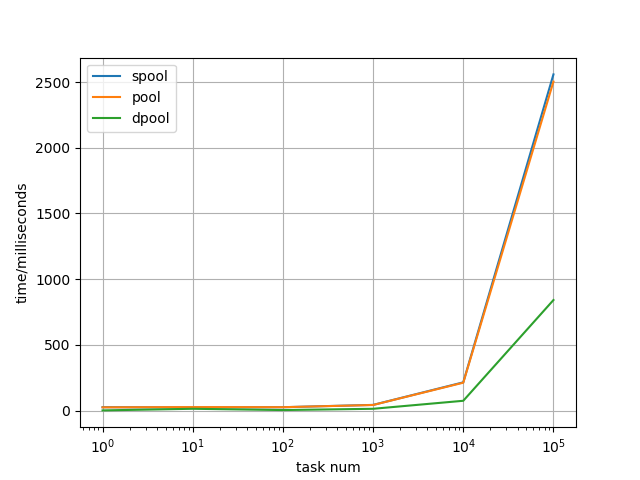
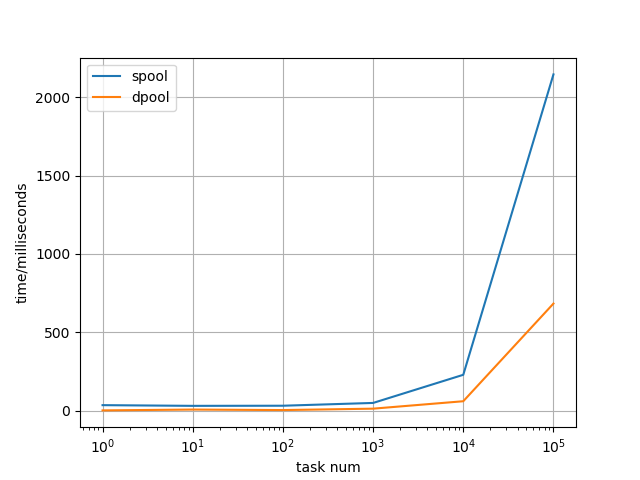
Update 1

diff --git a/includes/static_pool.hpp b/includes/static_pool.hpp
@@ -18,11 +18,10 @@
 namespace thread_pools
 {
 
-template <std::size_t PoolSize> // TODO: Set better default value according to the architecture.
 class spool final
 {// Ref: https://github.com/progschj/ThreadPool/blob/master/ThreadPool.h
 public:
-    spool();
+    spool(std::size_t);
     ~spool();
     template <typename Func, typename ... Args>
     auto enqueue(Func &&f, Args &&... args) // For Cpp14+ -> decltype(auto).
@@ -32,33 +31,40 @@ private:
     // Use xx::function<> wrapper is not zero overhead.(See the link below)
     // https://www.boost.org/doc/libs/1_45_0/doc/html/function/misc.html#id1285061
     // https://www.boost.org/doc/libs/1_45_0/doc/html/function/faq.html#id1284915
-    using thread_container = std::array<std::thread, PoolSize>;
-    thread_container                       m_workers;
-    std::mutex                             m_mu;
+    std::mutex                             m_queue_mu;
+    std::mutex                             m_end_mu;
     std::condition_variable                m_cv;
+    std::condition_variable                m_cv_end;
     std::queue<task_type>                  m_task_queue;
+    std::atomic<int>                       m_live        {  0  };
     bool                                   m_shutdown    {false};
 };
 
 // Implementation:
-template <std::size_t Sz> inline spool<Sz>::spool()
+inline spool::spool(std::size_t sz)
 {
-    for(auto && w : m_workers)
-        w = std::thread{[this]{
-            while(true)
-            {
-                std::unique_lock<std::mutex> lock(m_mu);
+    m_live = sz;
+    for(int i=0; i<sz; ++i)
+        std::thread([this] {
+            while (true) {
+                std::unique_lock<std::mutex> lock(m_queue_mu);
                 m_cv.wait(lock, [this] { return m_shutdown or !m_task_queue.empty(); });
-                if (m_shutdown and m_task_queue.empty()) return; // Conditions to let the thread go.
+                if (m_shutdown and m_task_queue.empty()) {
+                    lock.unlock();
+                    if (--m_live == 0)
+                        m_cv_end.notify_one();
+                    return; // Conditions to let the thread go.
+                }
                 auto task = std::move(m_task_queue.front());
                 m_task_queue.pop();
                 lock.unlock();
                 task();
-            }}};
+            }
+        }).detach();
 }
 
-template <std::size_t Sz> template <typename Func, typename ... Args>
-auto spool<Sz>::enqueue(Func &&f, Args &&... args) -> std::future<typename std::result_of<Func(Args...)>::type>
+template <typename Func, typename ... Args>
+auto spool::enqueue(Func &&f, Args &&... args) -> std::future<typename std::result_of<Func(Args...)>::type>
 {
     using return_type = typename std::result_of<Func(Args...)>::type;
 // >>> [Original std::shared_ptr version]. Actually in Cpp14 new standard we can use std::unique_ptr.
@@ -68,13 +74,12 @@ auto spool<Sz>::enqueue(Func &&f, Args &&... args) -> std::future<typename std::
     MAKE_TASK()
 }
 
-template <std::size_t Sz> inline spool<Sz>::~spool()
+inline spool::~spool()
 {
-    std::unique_lock<std::mutex> lock(m_mu);
     m_shutdown = true;
-    lock.unlock();
     m_cv.notify_all();
-    std::for_each(m_workers.begin(), m_workers.end(), std::mem_fn(&std::thread::join));
+    std::unique_lock<std::mutex> lock(m_end_mu); // lock-free waiting is slower...
+    m_cv_end.wait(lock, [this] { return m_live.load() == 0; });
 }
 
 }

diff --git a/benchmark.cpp b/benchmark.cpp
@@ -29,7 +29,7 @@ int main() {
     constexpr std::size_t execute_time = 1; // milli.
     constexpr std::size_t scale = 6;
 
-    std::vector<double> answers[3];
+    std::vector<double> answers[2];
 
     auto bench = [&](std::size_t mission_sz){
         std::this_thread::sleep_for(std::chrono::milliseconds(1000));
@@ -38,25 +38,12 @@ int main() {
         {   // TEST for thread_pools::spool
             auto beg = std::chrono::steady_clock::now();
             {
-                thread_pools::spool<psize> pool;
+                thread_pools::spool pool(psize);
                 for (int i = 0; i < mission_sz; ++i)
                     pool.enqueue([execute_time](){ std::this_thread::sleep_for(std::chrono::milliseconds(execute_time)); });
             }
             answers[0].push_back(std::chrono::duration<double, std::milli>(std::chrono::steady_clock::now() - beg).count());
             std::cout << "[STATIC POOL TEST] "  << psize << " threads execute time: " << answers[0].back() << " ms\n";
-        }
-
-        std::this_thread::sleep_for(std::chrono::milliseconds(1000));
-
-        {   // TEST for thread_pools::pool
-            auto beg = std::chrono::steady_clock::now();
-            {
-                thread_pools::pool pool(psize);
-                for (int i = 0; i < mission_sz; ++i)
-                    pool.enqueue([execute_time](){ std::this_thread::sleep_for(std::chrono::milliseconds(execute_time)); });
-            }
-            answers[1].push_back(std::chrono::duration<double, std::milli>(std::chrono::steady_clock::now() - beg).count());
-            std::cout << "[DEFAULT POOL TEST] "  << psize << " threads execute time: " << answers[1].back() << " ms\n";
         }
 
         std::this_thread::sleep_for(std::chrono::milliseconds(1000));
@@ -68,8 +55,8 @@ int main() {
                 for (int i = 0; i < mission_sz; ++i)
                     pool.enqueue([execute_time](){ std::this_thread::sleep_for(std::chrono::milliseconds(execute_time)); });
             }
-            answers[2].push_back(std::chrono::duration<double, std::milli>(std::chrono::steady_clock::now() - beg).count());
-            std::cout << "[DYNAMIC POOL TEST] "  << psize << " threads execute time: " << answers[2].back() << " ms\n";
+            answers[1].push_back(std::chrono::duration<double, std::milli>(std::chrono::steady_clock::now() - beg).count());
+            std::cout << "[DYNAMIC POOL TEST] "  << psize << " threads execute time: " << answers[1].back() << " ms\n";
         }
     };
 
@@ -85,18 +72,15 @@ int main() {
 
     // Generate code.
     auto& spool = answers[0];
-    auto& pool = answers[1];
-    auto& dpool = answers[2];
+    auto& dpool = answers[1];
 
     out << PY_IMPORT_SCRIPT;
     GEN_BENCH(x)
     GEN_BENCH(spool)
     PYPLOT(x, spool)
-    GEN_BENCH(pool)
-    PYPLOT(x, pool)
     GEN_BENCH(dpool)
     PYPLOT(x, dpool)
-    ADD_PYLINE("plt.legend(['spool', 'pool', 'dpool'])")
+    ADD_PYLINE("plt.legend(['spool', 'dpool'])")
 
     out << PY_PLOT_SCRIPT;
 }

diff --git a/includes/dynamic_pool.hpp b/includes/dynamic_pool.hpp
@@ -31,8 +31,6 @@ public:
     auto enqueue(Func&& f, Args&& ... args) -> std::future<typename std::result_of<Func(Args...)>::type>;
     template <typename Func, typename ... Args>
     auto enqueue(Func&& f, Args&& ... args) -> std::future<typename std::result_of<Func(Args...)>::type>;
-    std::size_t current_threads();
-    std::size_t current_tasks();
 #ifdef GANLER_DEBUG
     void unsafe_view()     noexcept {
         std::cout << "----------------------------------------\n"
@@ -49,12 +47,13 @@ private:
 
     const std::size_t            m_max_size;
     const std::size_t            m_max_idle_size;
-    std::atomic<std::size_t>     m_idle_num      { 0 };
-    std::mutex                   m_mu;
+    std::atomic<int>             m_idle_num      { 0 };
+    std::mutex                   m_queue_mu;
+    std::mutex                   m_map_mu;
     std::condition_variable      m_cv;
     thread_map                   m_workers;
     std::queue<task_type>        m_task_queue;
-    std::atomic<bool>            m_shutdown      { false };
+    bool                         m_shutdown      { false };
 
     // Helper
     void make_worker();                          // Called by locked function.
@@ -63,18 +62,7 @@ private:
 
 
 // Implementation
-inline std::size_t dpool::current_threads()
-{
-    std::lock_guard<std::mutex> lock(m_mu);
-    return m_workers.size();
-}
-
-inline std::size_t dpool::current_tasks()
-{
-    std::lock_guard<std::mutex> lock(m_mu);
-    return m_task_queue.size();
-}
-
+    // Init :)
 inline dpool::dpool(std::size_t max_sz, std::size_t max_idle_sz)
 : m_max_size(max_sz), m_max_idle_size( max_idle_sz == no_input ? max_sz / 2 : max_idle_sz)
 {
@@ -88,6 +76,7 @@ inline void dpool::destroy_worker(thread_index index)
         if(!m_shutdown)
         {
             m_workers[index].join();
+            std::lock_guard<std::mutex> lk(m_map_mu);
             m_workers.erase(index);
         }
     });
@@ -98,7 +87,7 @@ inline void dpool::make_worker()
     auto thread = std::thread{[this](){
         while(true)
         {
-            std::unique_lock<std::mutex> lock(m_mu);
+            std::unique_lock<std::mutex> lock(m_queue_mu);
             m_cv.wait(lock, [this](){ return m_shutdown or !m_task_queue.empty() or m_idle_num > m_max_idle_size; });
             if(m_shutdown and m_task_queue.empty()) { return; } // Game over.
             if(m_idle_num > m_max_idle_size and !m_shutdown)
@@ -121,7 +110,7 @@ inline void dpool::make_worker()
 inline dpool::~dpool()
 {
     m_shutdown = true;
-    m_cv.notify_all(); // TODO: If I add this code, I found it sometimes become 3x slower. Why?
+    m_cv.notify_all();
     std::for_each(m_workers.begin(), m_workers.end(), [](thread_map::value_type& x){ (x.second).join(); });
 }
 

diff --git a/includes/util.hpp b/includes/util.hpp
@@ -8,8 +8,10 @@
     std::packaged_task<return_type()>* task = nullptr;/* Why raw pointer? See comments in static_pool.hpp's enqueue().*/\
     try_allocate(task, std::forward<Func>(f), std::forward<Args>(args)...);\
     auto result = task->get_future();\
-    std::lock_guard<std::mutex> lock(m_mu);\
-    m_task_queue.emplace([task](){ (*task)(); delete task; });\
+    {\
+        std::lock_guard<std::mutex> lock(m_queue_mu);\
+        m_task_queue.emplace([task](){ (*task)(); delete task; });\
+    }\
     X;\
     m_cv.notify_one();\
     return result;
@@ -18,8 +20,10 @@
     auto task = std::make_shared<std::packaged_task<return_type ()>>(\
         std::bind(std::forward<Func>(f), std::forward<Args>(args)...));\
     auto result = task->get_future();\
-    std::lock_guard<std::mutex> lock(m_mu);\
-    m_task_queue.emplace([task](){ (*task)();});\
+    {\
+        std::lock_guard<std::mutex> lock(m_queue_mu);\
+        m_task_queue.emplace([task](){ (*task)(); });\
+    }\
     X\
     m_cv.notify_one();\
     return result;
@@ -36,6 +40,7 @@
 #endif
 
 #include <type_traits>
+#include <functional>
 
 namespace thread_pools
 {

diff --git a/includes/thread_pools.hpp b/includes/thread_pools.hpp
@@ -5,7 +5,6 @@
 
 #include <dynamic_pool.hpp>
 #include <static_pool.hpp>
-#include <default_pool.hpp>
 
 /*
  * For all kinds of pools:

diff --git a/README.md b/README.md
@@ -4,6 +4,8 @@
 ![](https://img.shields.io/github/stars/ganler/thread_pools.svg?style=social)
 ![](https://img.shields.io/github/languages/code-size/ganler/thread_pools.svg)
 
+> Note that I rewrite this library and removed all thread containers(use detached threads instead). Hence, `default_pool`(in old version) is no longer needed.
+
 ## Quick Start
 
 ```c++
@@ -13,7 +15,6 @@
 int main()
 {
     thread_pools::spool<10> pool;
-    // thread_pools::pool pool(10);  // default pool
     // thread_pools::dpool pool;     // dynamic pool
 
     auto result = pool.enqueue([]() { return 2333; });
@@ -23,14 +24,11 @@ int main()
 
 ## Introduction
 
-In the last 2 days, I implemented 3 kinds of thread pools:
-- **thread_pools::spool<Sz>**: Static pool which holds fixed number of threads in std::array<std::thread, Sz>.
-- **thread_pools::pool**: Default pool which holds fixed number of threads in std::vector<std::thread>.
-- **thread_pools::dpool**: Dynamic pool which holds unfixed number of threads in std::unordered_map<thread_index, std::thread>(This is very efficient).
+In the last 2 days, I implemented 2 kinds of thread pools:
+- **thread_pools::spool**: Static pool which holds fixed number of threads.
+- **thread_pools::dpool**: Dynamic pool which holds unfixed number of threads(This is very efficient).
 
 These kinds of pools can be qualified with different tasks according to user's specific situations.
-
-The `spool` and `pool` are nearly the same, as their only difference is that they use different containers.
 
 However, I myself design the growing strategy of the dynamic pool. For a `dpool(J, I, K)`:
 
@@ -47,15 +45,8 @@ using thread_pools
 
 // Static pool:
 constexpr std::size_t N = 10;
-spool<N> pool;                  // N is a template parameter meaning the number of thread this pool holds.
-                                // Threads are created when construction function is called and destroied when deconstruction function is called.
-                                // Note that N must be determined before compiling.
-
-// Default pool:
-pool pool(std::thread::hardware_concurrency()); 
-                                // pool(x), x is a parameter meaning the number of thread this pool holds.
-                                // Threads are created when construction function is called and destroied when deconstruction function is called.
-                                
+spool pool(N);                  // N is the number of threads this pool holds.
+                                // Threads are created when construction function is called and destroyed when deconstruction function is called.
 
 // Dynamic pool:
 dpool(std::size_t = 2 + std::thread::hardware_concurrency(), std::size_t = no_input);
